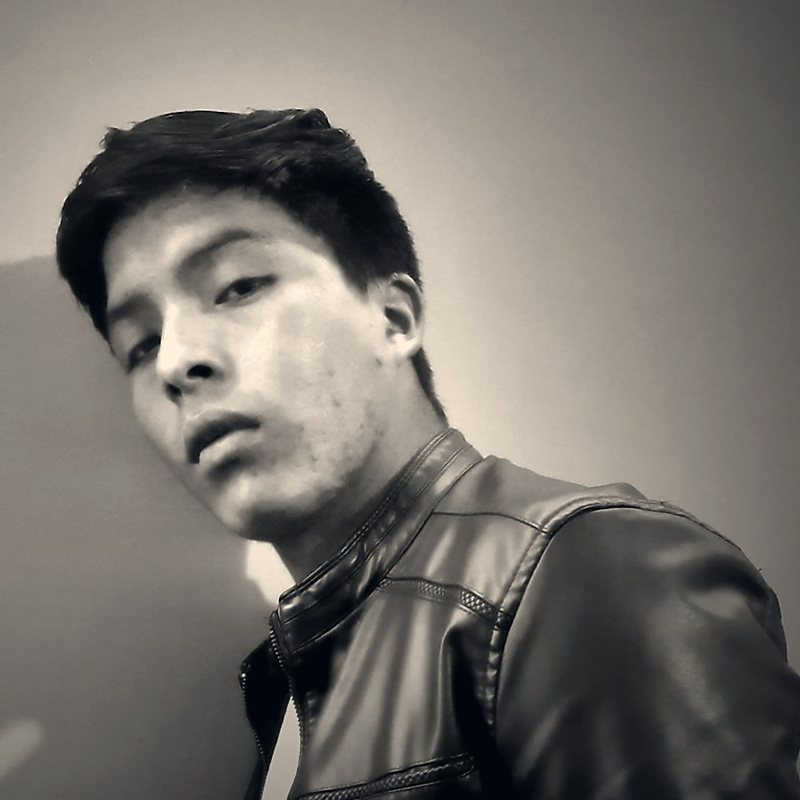
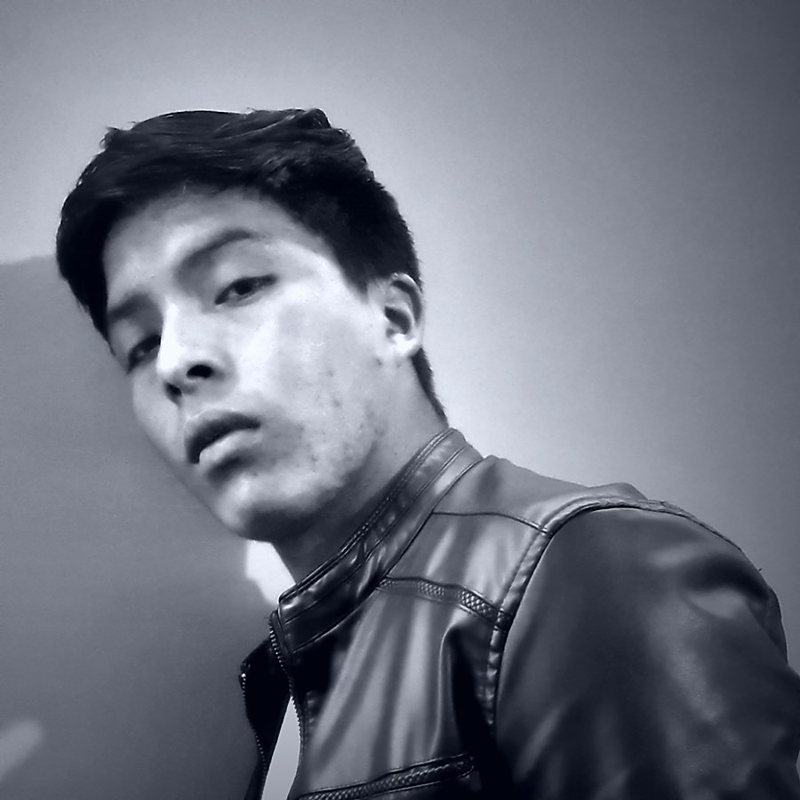
Cambia la paleta a azul noche + azul eléctrico y agrega Photoshop desde los 13

diff --git a/css/styles.css b/css/styles.css
@@ -1,14 +1,15 @@
 /* Portafolio · Gustavo Huamán — mobile first, modo oscuro */
 :root {
-  --bg: #0B0F14;
-  --surface: #131A22;
-  --surface-2: #18212B;
-  --border: #223040;
-  --text: #E6EDF3;
-  --muted: #8B98A5;
-  --accent: #F5A524;
-  --accent-ink: #1A1205;
-  --accent-soft: rgba(245, 165, 36, .12);
+  --bg: #070B16;
+  --surface: #0F1626;
+  --surface-2: #152036;
+  --border: #1F2C47;
+  --text: #E8EEFC;
+  --muted: #8E9AB8;
+  --accent: #4F7CFF;
+  --accent-text: #8AA8FF;
+  --accent-ink: #FFFFFF;
+  --accent-soft: rgba(79, 124, 255, .14);
   --wa: #25D366;
 
   --font-display: "Space Grotesk", system-ui, sans-serif;
@@ -38,7 +39,7 @@ ul { margin: 0; padding: 0; list-style: none; }
 :focus-visible { outline: 2px solid var(--accent); outline-offset: 3px; border-radius: 6px; }
 
 .wrap { width: 100%; max-width: var(--wrap); margin-inline: auto; padding-inline: 20px; }
-.accent { color: var(--accent); }
+.accent { color: var(--accent-text); }
 .skip { position: absolute; left: -999px; top: 8px; background: var(--accent); color: var(--accent-ink); padding: 8px 14px; border-radius: 8px; z-index: 100; }
 .skip:focus { left: 8px; }
 
@@ -51,15 +52,15 @@ ul { margin: 0; padding: 0; list-style: none; }
 }
 .btn:hover { transform: translateY(-2px); }
 .btn--primary { background: var(--accent); color: var(--accent-ink); }
-.btn--primary:hover { background: #FFB840; }
+.btn--primary:hover { background: #6B91FF; }
 .btn--ghost { background: transparent; color: var(--text); border-color: var(--border); }
-.btn--ghost:hover { border-color: var(--accent); }
+.btn--ghost:hover { border-color: var(--accent-text); }
 .btn--sm { min-height: 42px; padding: 0 1.1rem; font-size: .9rem; }
 
 /* Navegación */
 .nav {
   position: fixed; inset: 0 0 auto; z-index: 50; height: var(--nav-h);
-  background: rgba(11, 15, 20, .72); backdrop-filter: blur(14px); -webkit-backdrop-filter: blur(14px);
+  background: rgba(7, 11, 22, .72); backdrop-filter: blur(14px); -webkit-backdrop-filter: blur(14px);
   border-bottom: 1px solid transparent; transition: border-color .3s ease;
 }
 .nav.is-scrolled { border-bottom-color: var(--border); }
@@ -84,13 +85,13 @@ ul { margin: 0; padding: 0; list-style: none; }
 .nav__menu.is-open { transform: none; opacity: 1; visibility: visible; }
 .nav__menu a { padding: 14px 4px; text-decoration: none; font-weight: 500; color: var(--muted); border-bottom: 1px solid var(--border); }
 .nav__menu a:hover, .nav__menu a.is-active { color: var(--text); }
-.nav__menu .nav__cta { color: var(--accent); border-bottom: 0; }
+.nav__menu .nav__cta { color: var(--accent-text); border-bottom: 0; }
 
 /* Hero */
 .hero { padding: calc(var(--nav-h) + 56px) 0 72px; position: relative; overflow: hidden; }
 .hero::before {
   content: ""; position: absolute; width: 560px; height: 560px; right: -220px; top: -140px; pointer-events: none;
-  background: radial-gradient(circle, rgba(245, 165, 36, .16), transparent 65%);
+  background: radial-gradient(circle, rgba(79, 124, 255, .22), transparent 65%);
 }
 .hero__in { position: relative; }
 .eyebrow {
@@ -104,13 +105,13 @@ ul { margin: 0; padding: 0; list-style: none; }
 .hero__actions .btn { flex: 1 1 160px; }
 .hero__stats { display: grid; grid-template-columns: repeat(3, 1fr); gap: 1px; background: var(--border); border: 1px solid var(--border); border-radius: var(--radius); overflow: hidden; max-width: 560px; }
 .hero__stats li { background: var(--bg); padding: 1rem .75rem; text-align: center; }
-.hero__stats strong { display: block; font: 700 1.75rem/1.1 var(--font-display); color: var(--accent); }
+.hero__stats strong { display: block; font: 700 1.75rem/1.1 var(--font-display); color: var(--accent-text); }
 .hero__stats span { font-size: .8rem; color: var(--muted); }
 
 /* Secciones */
 .section { padding: 80px 0; }
 .section--alt { background: var(--surface); border-block: 1px solid var(--border); }
-.kicker { color: var(--accent); font-weight: 600; font-size: .8rem; letter-spacing: .14em; text-transform: uppercase; margin-bottom: .6rem; }
+.kicker { color: var(--accent-text); font-weight: 600; font-size: .8rem; letter-spacing: .14em; text-transform: uppercase; margin-bottom: .6rem; }
 .section__lead { color: var(--muted); max-width: 60ch; margin-bottom: 2.5rem; }
 
 /* Sobre mí */
@@ -130,19 +131,19 @@ ul { margin: 0; padding: 0; list-style: none; }
   display: flex; flex-direction: column; background: var(--bg); border: 1px solid var(--border);
   border-radius: var(--radius); overflow: hidden; transition: border-color .3s ease, transform .3s ease;
 }
-.card:hover { border-color: rgba(245, 165, 36, .5); transform: translateY(-4px); }
+.card:hover { border-color: rgba(79, 124, 255, .6); transform: translateY(-4px); }
 .card__media { position: relative; display: block; width: 100%; padding: 0; border: 0; cursor: zoom-in; aspect-ratio: 16 / 10; overflow: hidden; background: var(--surface-2); }
 .card__media img { width: 100%; height: 100%; object-fit: cover; object-position: top; transition: transform .5s ease; }
 .card:hover .card__media img { transform: scale(1.04); }
 .card__badge {
   position: absolute; left: 12px; top: 12px; padding: .3rem .7rem; border-radius: 999px;
-  background: rgba(11, 15, 20, .85); color: var(--accent); font-size: .75rem; font-weight: 600; border: 1px solid var(--border);
+  background: rgba(7, 11, 22, .85); color: var(--accent-text); font-size: .75rem; font-weight: 600; border: 1px solid var(--border);
 }
 .card__body { display: flex; flex-direction: column; flex: 1; padding: 1.5rem; }
 .card__body h3 { margin-bottom: .6rem; }
 .card__body > p { color: var(--muted); font-size: .95rem; }
 .tags { display: flex; flex-wrap: wrap; gap: .4rem; margin: .25rem 0 1.5rem; }
-.tags li { padding: .35rem .75rem; border-radius: 6px; background: var(--accent-soft); color: var(--accent); font-size: .78rem; font-weight: 500; }
+.tags li { padding: .35rem .75rem; border-radius: 6px; background: var(--accent-soft); color: var(--accent-text); font-size: .78rem; font-weight: 500; }
 .card__actions { display: flex; flex-wrap: wrap; gap: .6rem; margin-top: auto; }
 .card__note { margin: .9rem 0 0; font-size: .8rem; color: var(--muted); }
 
@@ -159,8 +160,8 @@ ul { margin: 0; padding: 0; list-style: none; }
   display: flex; align-items: center; gap: 1rem; padding: 1.1rem 1.25rem; text-decoration: none;
   background: var(--bg); border: 1px solid var(--border); border-radius: var(--radius); transition: border-color .2s ease, transform .2s ease;
 }
-.contact__item:hover { border-color: var(--accent); transform: translateY(-2px); }
-.contact__item svg { flex: none; width: 28px; height: 28px; color: var(--accent); }
+.contact__item:hover { border-color: var(--accent-text); transform: translateY(-2px); }
+.contact__item svg { flex: none; width: 28px; height: 28px; color: var(--accent-text); }
 .contact__item span { display: flex; flex-direction: column; min-width: 0; }
 .contact__item small { color: var(--muted); font-size: .9rem; overflow-wrap: anywhere; }
 
@@ -169,7 +170,7 @@ ul { margin: 0; padding: 0; list-style: none; }
 .footer__in { display: flex; flex-wrap: wrap; justify-content: space-between; gap: .5rem; }
 .footer p { margin: 0; }
 .footer a { text-decoration: none; }
-.footer a:hover { color: var(--accent); }
+.footer a:hover { color: var(--accent-text); }
 
 /* WhatsApp flotante */
 .wa-float {
@@ -224,7 +225,7 @@ ul { margin: 0; padding: 0; list-style: none; }
   }
   .nav__menu a { border: 0; padding: .5rem .85rem; border-radius: 999px; }
   .nav__menu .nav__cta { margin-left: .5rem; border: 1px solid var(--border); }
-  .nav__menu .nav__cta:hover { border-color: var(--accent); }
+  .nav__menu .nav__cta:hover { border-color: var(--accent-text); }
   .hero { padding: calc(var(--nav-h) + 110px) 0 120px; }
   .section { padding: 112px 0; }
   .about { grid-template-columns: 360px 1fr; align-items: center; gap: 4rem; }

diff --git a/index.html b/index.html
@@ -6,7 +6,7 @@
   <title>Gustavo Huamán · Desarrollador de software en Lima</title>
   <meta name="description" content="Desarrollador de software en Lima, Perú, con 9 años en ventas, marketing y diseño gráfico. Construyo apps y webs para negocios reales.">
   <meta name="author" content="Gustavo Huamán">
-  <meta name="theme-color" content="#0B0F14">
+  <meta name="theme-color" content="#070B16">
   <link rel="canonical" href="https://gohushs.github.io/">
 
   <!-- Open Graph (WhatsApp, Facebook, LinkedIn) -->
@@ -96,7 +96,7 @@
         <div class="about__text">
           <p class="kicker reveal">Sobre mí</p>
           <h2 class="reveal">Del mostrador al código</h2>
-          <p class="reveal">Llevo 9 años vendiendo, haciendo marketing y diseñando piezas gráficas para marcas. Ahí aprendí lo que de verdad necesita un negocio: que el cliente encuentre rápido lo que busca, que el equipo no pierda tiempo y que los números estén claros.</p>
+          <p class="reveal">Llevo 9 años vendiendo, haciendo marketing y diseñando piezas gráficas para marcas, y uso Photoshop desde los 13 años. Ahí aprendí lo que de verdad necesita un negocio: que el cliente encuentre rápido lo que busca, que el equipo no pierda tiempo y que los números estén claros.</p>
           <p class="reveal">Hoy uso eso para construir software. He hecho la web corporativa y la app de asistencia de una empresa de seguridad, la marca y la tienda web de mi propio negocio de accesorios para camionetas, y el sistema de almacén y ventas con el que ese negocio opera cada día.</p>
           <ul class="about__list reveal">
             <li>Entiendo la venta, no solo el código.</li>
@@ -193,7 +193,7 @@
           <div class="skills__group reveal">
             <h3>Diseño y creatividad</h3>
             <ul class="chips">
-              <li>Diseño gráfico</li><li>Branding</li><li>Photoshop</li><li>Illustrator</li><li>Piezas para redes</li><li>DJ</li>
+              <li>Diseño gráfico</li><li>Branding</li><li>Photoshop (desde los 13)</li><li>Illustrator</li><li>Piezas para redes</li><li>DJ</li>
             </ul>
           </div>
         </div>
